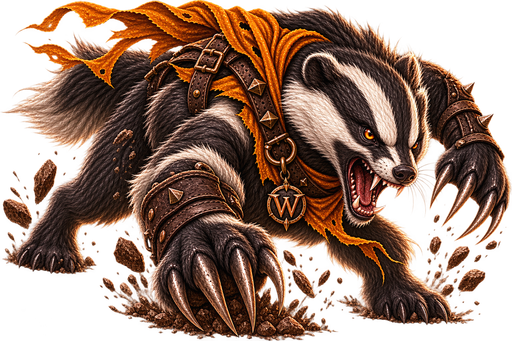
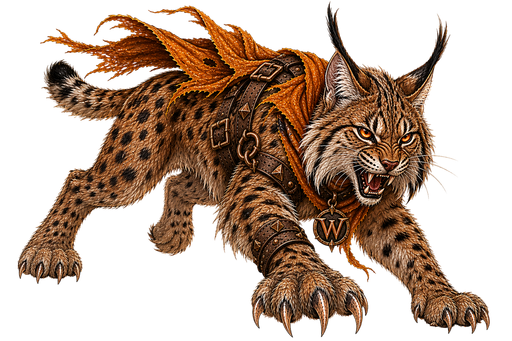
Frame de equipamento na arte da criatura, lince/texugo e emojis com ícone
- A arte da criatura passa a replicar exatamente a moldura do equipamento (IconFrame):
  slot-well, borda, cantos em ember e a arte cover/padded com o mesmo inset, só sem a
  margem m-3, para a linha da lista continuar alinhada.
- Lince atualizado e texugo (furious-badger) adicionado, completando as 10 criaturas do
  Campo do Vilarejo. CREATURE_ART_VERSION sobe para ?v=2 para furar o cache imutável e
  mostrar as artes novas e atualizadas.
- Chat da taverna: o botão do dropup vira um ícone (Smile do lucide, mapeado no
  app-icon) no lugar do emoji; os emojis ficam só dentro do dropup, agora com z e borda
  reforçados. Versão 1.4.4.

diff --git a/src/views/screens/hunt.screen.tsx b/src/views/screens/hunt.screen.tsx
@@ -14,6 +14,7 @@ import { cn } from "@/shared/utils/class-names";
 import { formatNumber } from "@/shared/utils/format";
 import { ArtImage } from "../components/art-image";
 import { IconArt } from "../components/icon-frame";
+import { CornerAccents } from "../components/corner-accents";
 import {
   loadHuntSelection,
   saveHuntSelection,
@@ -46,7 +47,7 @@ interface HuntSession {
 // Creature art rides a version query, like the manifest's ?v: /assets is cached a
 // year and immutable, so a URL 404-ed before its .png existed stays 404 in cache.
 // Bump this whenever new creature art lands so every drawing is re-fetched clean.
-const CREATURE_ART_VERSION = "?v=1";
+const CREATURE_ART_VERSION = "?v=2";
 
 const EMPTY_SESSION: HuntSession = {
   hunts: 0,
@@ -495,12 +496,22 @@ export function HuntScreen() {
                                 isSelected ? "bg-surface-high" : "hover:bg-surface-high/60",
                               )}
                             >
-                              <span className="slot-well relative flex h-18 w-18 shrink-0 items-center justify-center overflow-hidden rounded-md border border-edge bg-base">
-                                {creature.image ? (
-                                  <IconArt source={creature.image + CREATURE_ART_VERSION} />
-                                ) : (
-                                  <span className="font-mono text-xs text-ink-faint">?</span>
-                                )}
+                              {/* Exactly the equipment icon (IconFrame medium): slot-well
+                                  gradient, edge border, ember corner accents and the art
+                                  cover-fit with the same 5px inset, only without the m-3
+                                  margin so the list row stays aligned. */}
+                              <span
+                                aria-hidden="true"
+                                className="relative flex h-18 w-18 shrink-0"
+                              >
+                                <span className="slot-well relative flex h-full w-full items-center justify-center overflow-hidden rounded-md border border-edge bg-base font-mono text-lg text-ink-faint">
+                                  {creature.image ? (
+                                    <IconArt source={creature.image + CREATURE_ART_VERSION} />
+                                  ) : (
+                                    "?"
+                                  )}
+                                </span>
+                                <CornerAccents scale="icon" />
                               </span>
                               <span className="min-w-0 flex-1">
                                 <span

diff --git a/src/views/screens/tavern.screen.tsx b/src/views/screens/tavern.screen.tsx
@@ -719,7 +719,7 @@ export function TavernScreen() {
             </div>
             <div className="relative shrink-0" ref={emojiRef}>
               {emojiOpen ? (
-                <div className="absolute bottom-full right-0 z-20 mb-2 grid grid-cols-4 gap-1 rounded-md border border-edge bg-surface p-2 shadow-[0_18px_40px_-12px_rgba(0,0,0,0.9)]">
+                <div className="absolute bottom-full right-0 z-30 mb-2 grid grid-cols-4 gap-1 rounded-md border border-edge-strong bg-surface p-2 shadow-[0_18px_40px_-12px_rgba(0,0,0,0.9)]">
                   {["😂", "❤", "👍", "😮", "😢", "🔥", "🎉", "🍺"].map((emoji) => (
                     <button
                       key={emoji}
@@ -744,9 +744,9 @@ export function TavernScreen() {
                 aria-label="Emojis"
                 aria-expanded={emojiOpen}
                 onClick={() => setEmojiOpen((open) => !open)}
-                className="grid h-8 w-8 place-items-center rounded-md border border-edge text-lg hover:bg-surface-high"
+                className="grid h-8 w-8 place-items-center rounded-md border border-edge text-ink-faint transition-colors hover:border-edge-strong hover:bg-surface-high hover:text-ink"
               >
-                🙂
+                <ActionIcon action="smile" className="h-4 w-4" />
               </button>
             </div>
             <Button

diff --git a/src/shared/constants/version.ts b/src/shared/constants/version.ts
@@ -5,7 +5,7 @@
 // one build they always agree; across a deploy the old bundle differs from the
 // new server, which is exactly the staleness signal. Bump on a real release, not
 // on every commit.
-export const GAME_VERSION = "1.4.3";
+export const GAME_VERSION = "1.4.4";
 
 // How often an open tab asks the server for its current version. One minute is
 // frequent enough to reach players soon after a deploy without polling noise.

diff --git a/src/views/components/app-icon.tsx b/src/views/components/app-icon.tsx
@@ -21,6 +21,7 @@ import {
   Settings,
   Shield,
   ShoppingBag,
+  Smile,
   Store,
   Swords,
   Trash2,
@@ -83,6 +84,7 @@ const ACTION_ICONS = {
   mail: Mail,
   copy: Copy,
   check: Check,
+  smile: Smile,
 } as const;
 
 export type AppAction = keyof typeof ACTION_ICONS;
